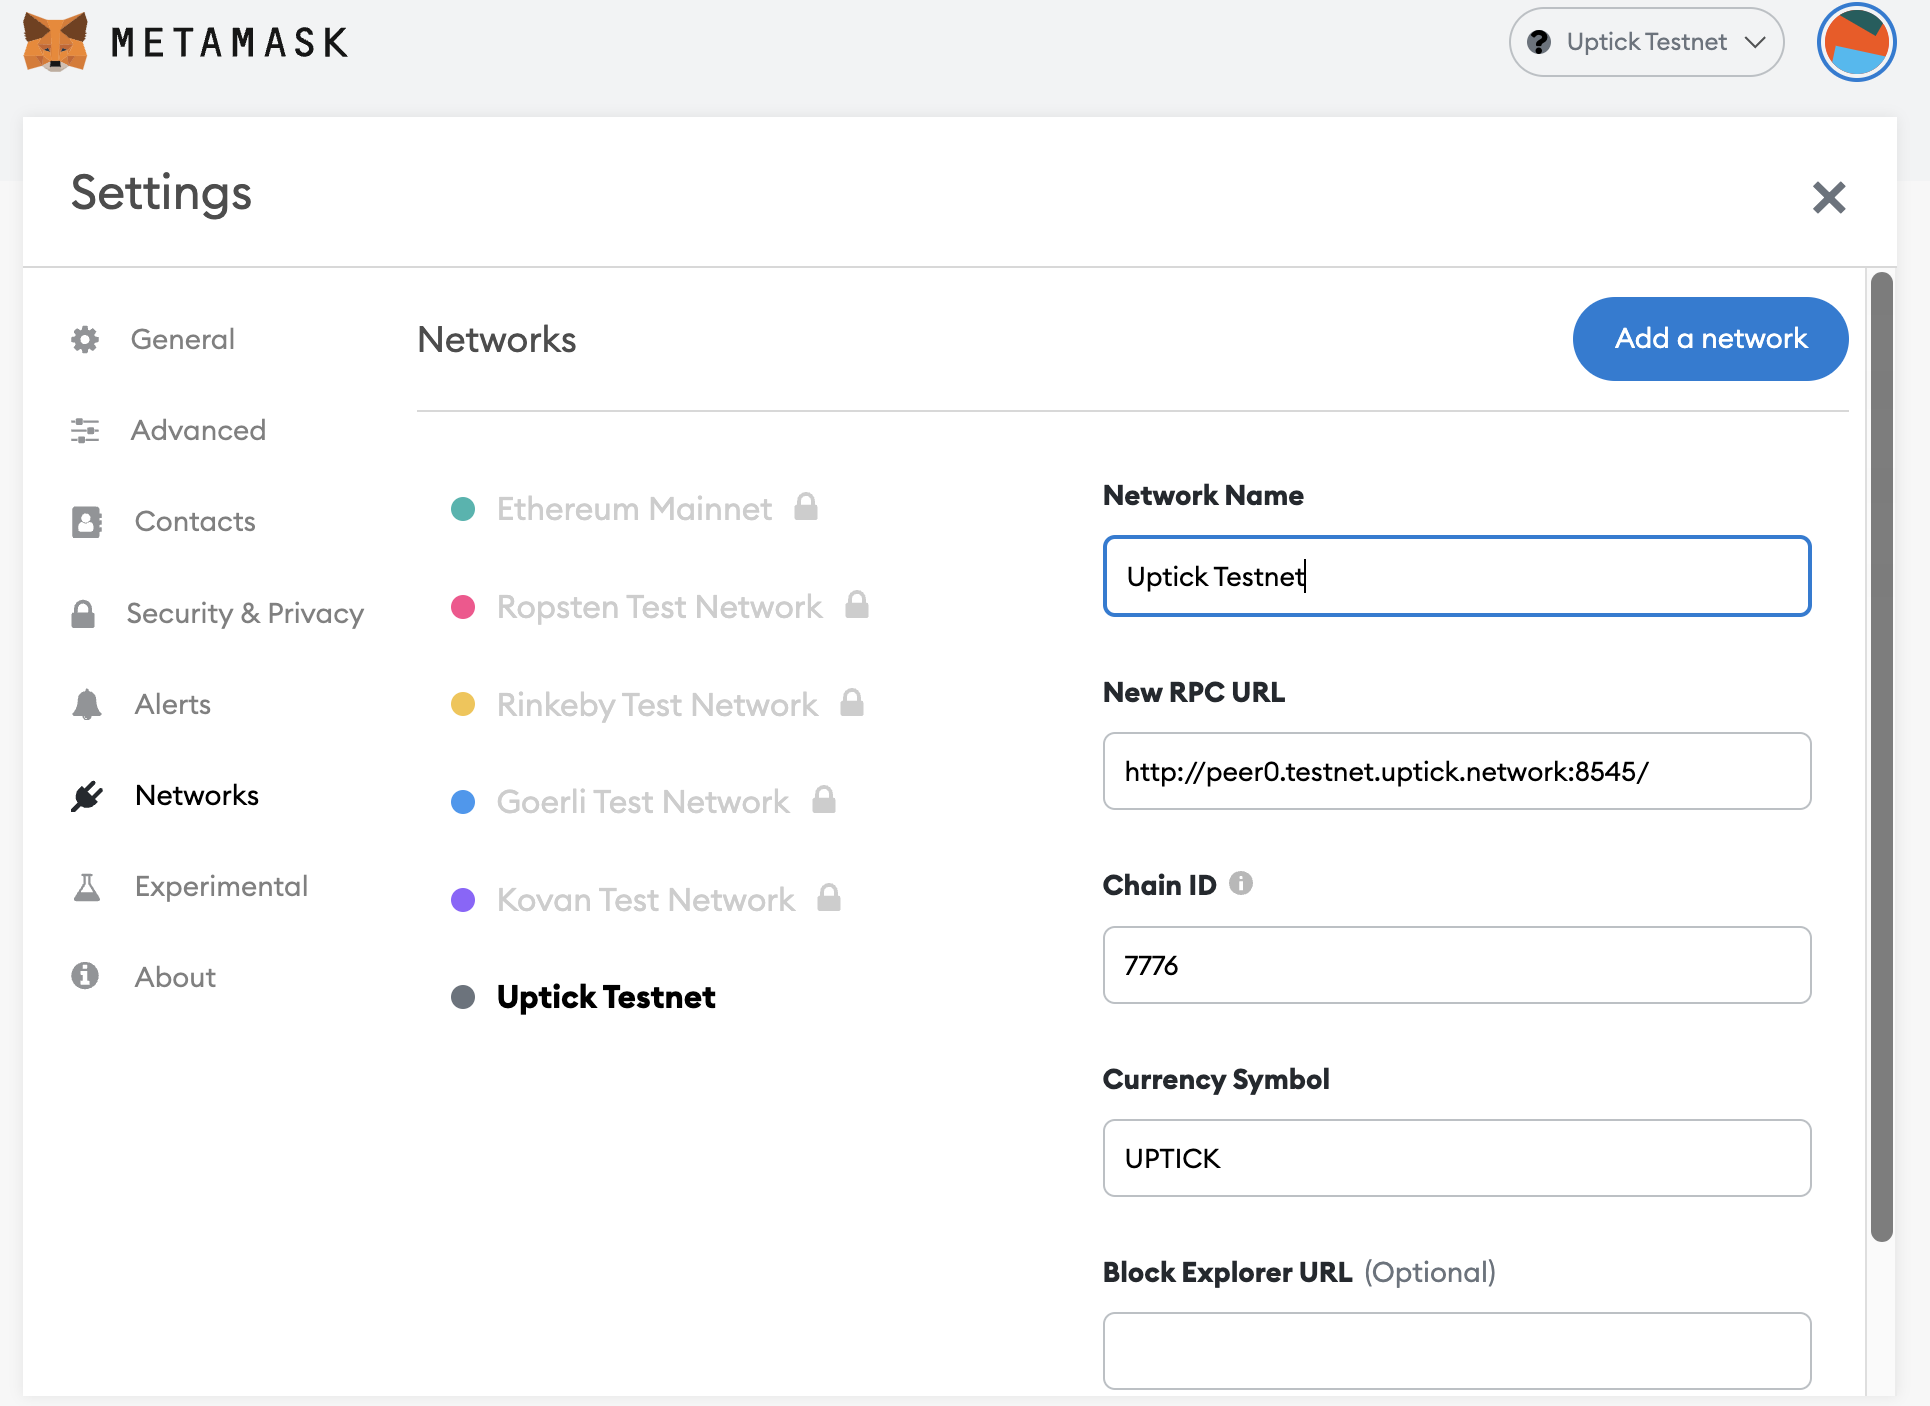
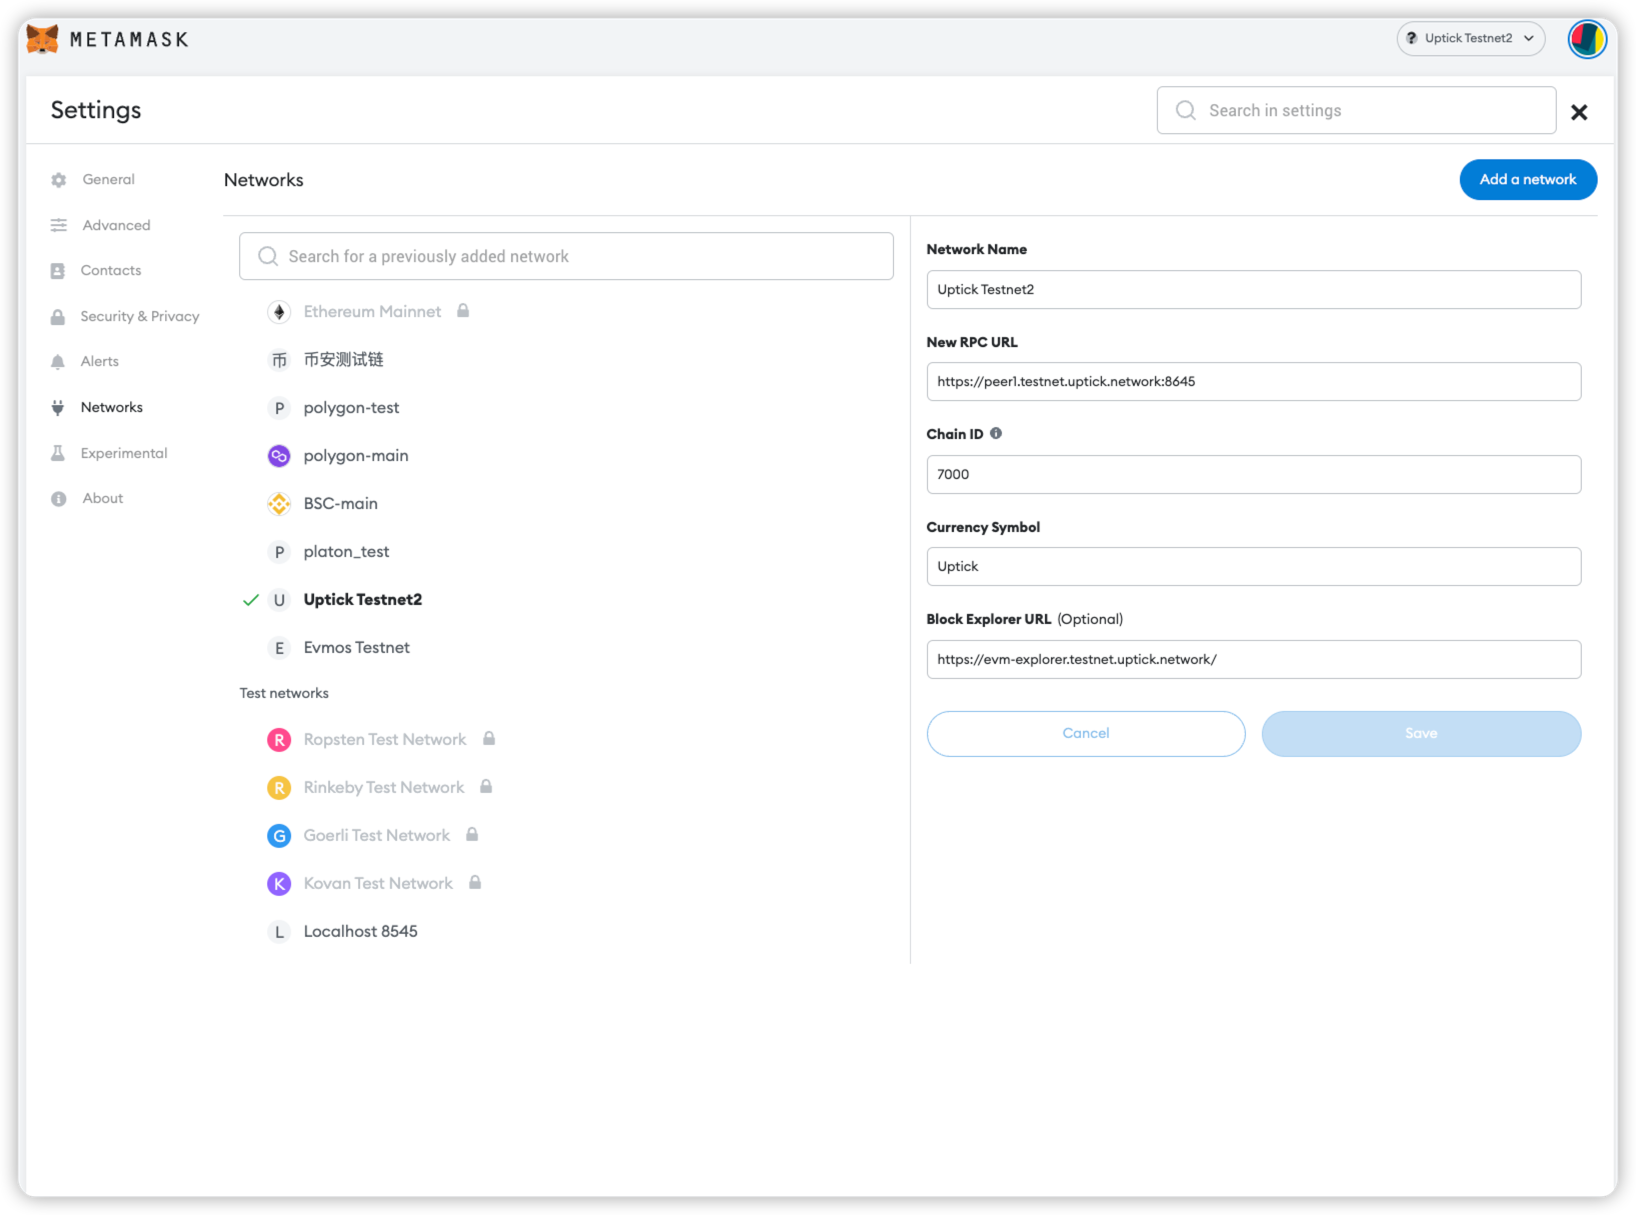
Update docs: .update chain id .add invite validators .update version

diff --git a/docs/.vuepress/config.js b/docs/.vuepress/config.js
@@ -58,23 +58,24 @@ module.exports = {
       testnet_denom: 'Uptick',
       testnet_ticker: 'UPTICK',
       rpc_url: 'http://localhost:8545/',
-      rpc_url_testnet: 'http://peer1.testnet.uptick.network:8545/',
+      rpc_url_testnet: 'https://peer1.testnet.uptick.network:8645/',
       rpc_url_local: 'http://localhost:8545/',
-      chain_id: '7000',
+      chain_id: '未定',
       testnet_chain_id: '7000',
-      latest_version: 'v0.1.0',
+      latest_version: 'v0.2.2',
       version_number: '1',
       testnet_version_number: '2',
-      cosmos_block_explorer_url: 'https://explorer.uptick.org',
+      cosmos_block_explorer_url: 'https://explorer.testnet.uptick.network/',
+      block_explorer_url:'https://evm-explorer.testnet.uptick.network'
     },
     logo: {
       src: '/uptick-black.svg',
     },
-    algolia: {
-      id: 'BH4D9OD16A',
-      key: 'a5d55fe5f540cc3bd28fa2c72f2b5bd8',
-      index: 'uptick'
-    },
+    // algolia: {
+    //   id: 'BH4D9OD16A',
+    //   key: 'a5d55fe5f540cc3bd28fa2c72f2b5bd8',
+    //   index: 'uptick'
+    // },
     topbar: {
       banner: false
     },

diff --git a/docs/quickstart/reproducible-builds.md b/docs/quickstart/reproducible-builds.md
@@ -30,7 +30,7 @@ Checkout the commit, branch, or release tag you want to build (eg `v0.1.0`):
 
 ```bash
 cd uptick/
-git checkout v0.1.0
+git checkout <version>
 ```
 
 The buildsystem supports and produces binaries for the following architectures:
@@ -49,12 +49,10 @@ build sanity. An example of its contents follows:
 
 ```
 App: uptickd
-Version: 0.1.0
-Commit: d477e775a2596701ea215a4570e8ea9669d76edf
+Version: main-b64818534efefde25ef06f51c0011759a26a72ed
+Commit: b64818534efefde25ef06f51c0011759a26a72ed
 Checksums-Sha256:
-  14ef10a820d492072f930e144aa330a21af5824fdb5c2fada442d5ec67864693  uptick_0.1.0_Darwin_x86_64.tar.gz
-  576c8a13d147ca63cd1de7ee9bbabcf6f70200189cafa31b19263d3bfae37183  uptick_0.1.0_Linux_x86_64.tar.gz
-  ad7bf8b237e7093478d1e2b49b3bb2a15154dc37869fa1ff98a474376bb9f07c  uptick_0.1.0_Linux_arm64.tar.gz
-  d03970de154ae2438f354b5d7b25b94a22d7daa3ba7107632c7c07f188d61715  uptick_0.1.0_Darwin_arm64.tar.gz
-  f8098bd12d1c9459158ec1dfd2a9a5cc4e41f960ed4de844216c65f19c803786  uptick_0.1.0_Windows_x86_64.zip
+ 90c3ce170d19b6b86d31a9cf3becef68f4d232bd2ae5ec95039d2396fe0d872c  uptickd-main-b64818534efefde25ef06f51c0011759a26a72ed-linux-amd64
+ d4b84ca499c847e3de5f8ac7a69ce5f436f3ae206e18de8bd355ee545d930f4f  uptickd-main-b64818534efefde25ef06f51c0011759a26a72ed.tar.gz
+
 ```

diff --git a/docs/testnet/join.md b/docs/testnet/join.md
@@ -12,7 +12,7 @@ You specify the network you want to join by setting the **genesis file** and **s
 
 | Network Chain ID | Description                       | Site                                                                     | Version                                               |
 |------------------|-----------------------------------|--------------------------------------------------------------------------|-------------------------------------------------------|
-| `uptick_7000-1`   | Uptick Testnet | [uptick_7000-1 testnet](https://github.com/UptickNetwork/uptick-testnet/tree/main/uptick_7000-1) | [`v0.1.x`](https://github.com/UptickNetwork/uptick/releases) |
+| `uptick_7000-1`   | Uptick Testnet | [uptick_7000-1 testnet](https://github.com/UptickNetwork/uptick-testnet/tree/main/uptick_7000-1) | [`v0.2.x`](https://github.com/UptickNetwork/uptick/releases) |
 
 ## Install `uptickd`
 

diff --git a/docs/guides/localnet/multi_node.md b/docs/guides/localnet/multi_node.md
@@ -4,15 +4,19 @@ order: 2
 
 # Multi Node
 
+## Pre-requisite Readings
+
+- [Install Starport](https://docs.starport.network/#install-starport)  {prereq}
+- [Install Docker](https://docs.docker.com/engine/installation/)  {prereq}
+- [Install docker-compose](https://docs.docker.com/compose/install/)  {prereq}
+
 ## Automated Localnet with Starport
 
-Once you have installed `ignite`, just run the localnet by using
+Once you have installed `starport`, just run the localnet by using
 
 ```bash
-ignite chain serve
+starport chain serve --reset-once -v -c ./starport.yml
 ```
-
-Detailed instructions can be found in the [Ignite CLI documentation](https://docs.ignite.com/kb/serve)
 
 ## Automated Localnet with Docker
 

diff --git a/docs/intro/use_cases.md b/docs/intro/use_cases.md
@@ -40,8 +40,7 @@ available in the Uptick chain such as developing a module or importing a third-p
 
 Using Uptick chain will allow for the direct deployment of smart contracts to the Uptick
 network. Utilizing the Uptick client will defer the chain maintenance to the Uptick network
-and allow for the participation in a more mature blockchain. The Uptick client will also offer
-(in the near future) IBC compatibility which allows for interoperability between different network.
+and allow for the participation in a more mature blockchain.
 
 |                                         | Uptick Chain     | x/evm dependency |
 |-----------------------------------------|-----------------|------------------|

diff --git a/docs/guides/validators/setup.md b/docs/guides/validators/setup.md
@@ -4,6 +4,13 @@ order: 2
 
 # Run a Validator
 
+::: warning
+During testnet 2.0, we will invite validators in two batches. The first batch is for the validators that want to be genesis validators. This is important to ensure the quality and performance of the initial network. The second batch is for the public nodes that want to be validators. Please fill in this [Google Form](https://forms.gle/T7i77dhjAxXGcjpj9). This will help the team decide which batch will be opened to you.
+
+Once you are able to join as a validoator, here is the instructions for you to set it up.
+:::
+
+
 Learn how to setup and run a validator node {synopsis}
 
 ## Pre-requisite Readings

diff --git a/docs/intro/resources.md b/docs/intro/resources.md
@@ -8,7 +8,7 @@ Learn about Uptick with the list of official resources. {synopsis}
 
 - Official Documentation: [https://docs.uptick.network/](https://docs.uptick.network/)
 - Official Codebase: [https://github.com/UptickNetwork/uptick](https://github.com/UptickNetwork/uptick)
-- Official Website: [https://uptick.network/](https://uptick.network/)
+- Official Website: [https://www.uptick.network/](https://www.uptick.network/)
 
 ## Workshops and Videos
 
